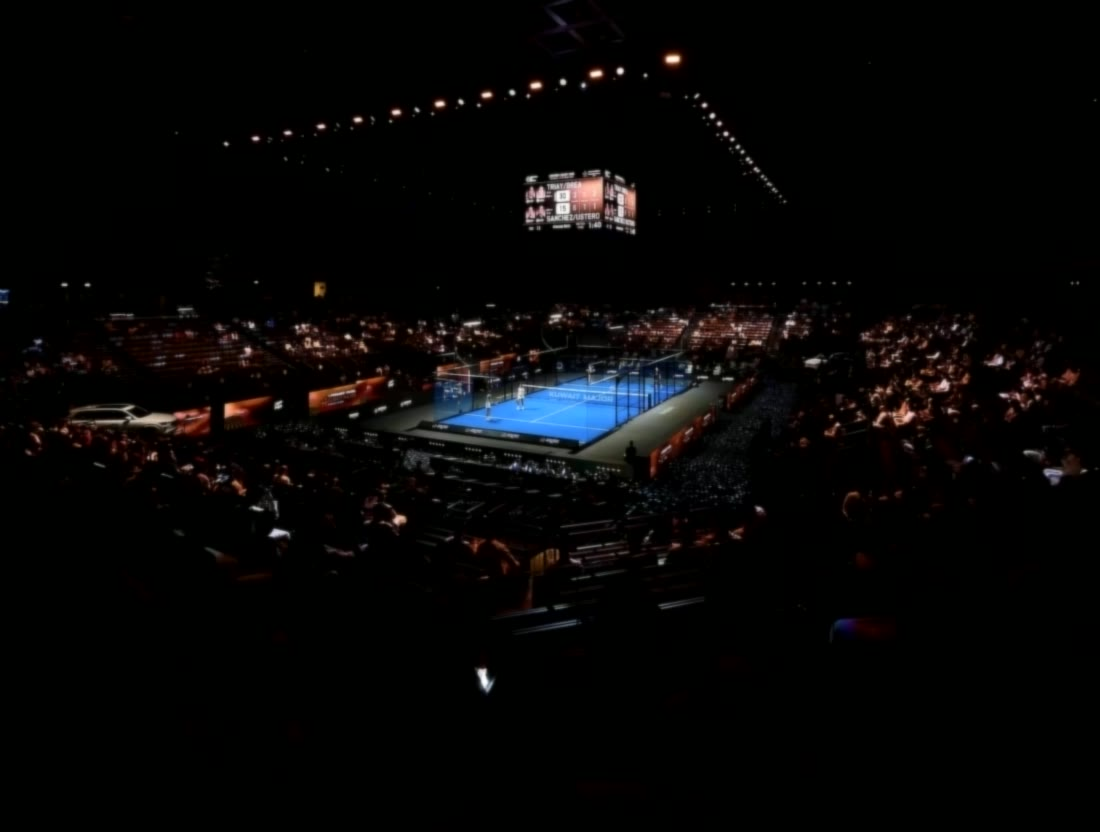
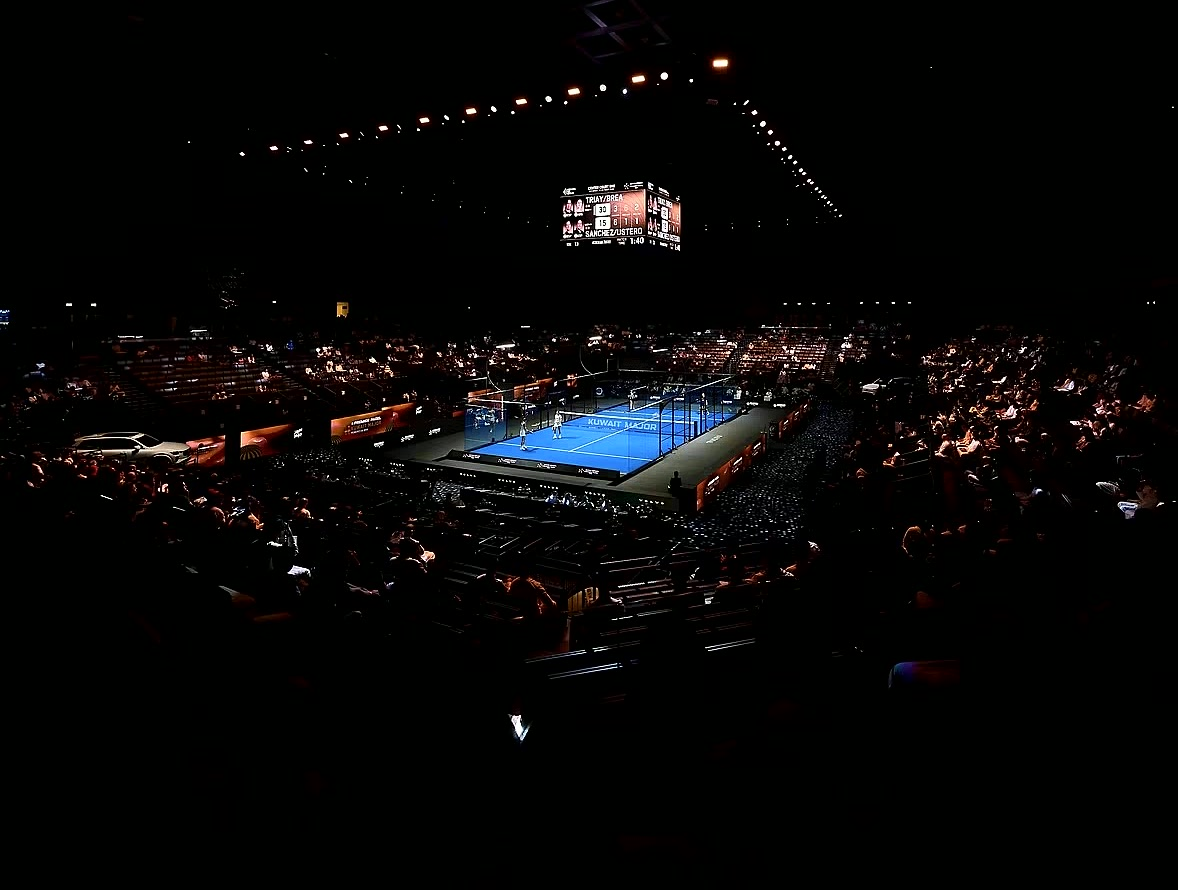
Arena background: full resolution, no blur, light sharpening
Claude-Session: https://claude.ai/code/session_01XNU9HCQbCVxNJnK294rt1R

diff --git a/app/components/ui.tsx b/app/components/ui.tsx
@@ -8,7 +8,7 @@ import { fmtLevel } from '@/lib/format';
 import { Glass } from './Glass';
 
 const ARENA = require('@/assets/images/arena.jpg');
-const ARENA_ASPECT = 1100 / 832;
+const ARENA_ASPECT = 1179 / 890;
 
 /**
  * Every screen sits in a night arena: the lit blue court in the middle, roof lights
